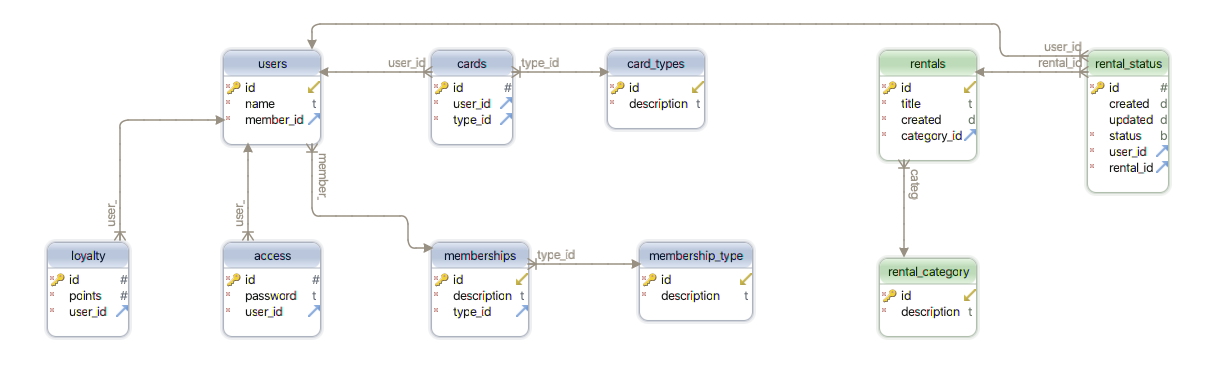
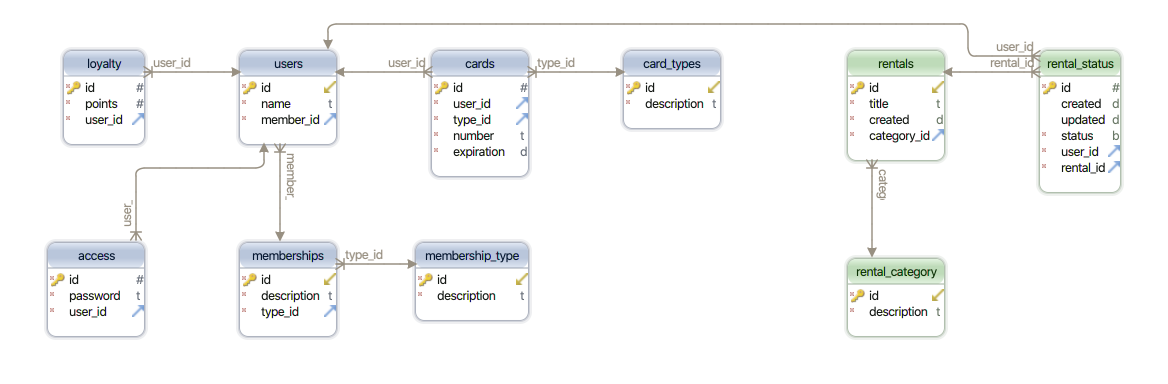
Adding Database methods

diff --git a/src/main/java/db/Database.java b/src/main/java/db/Database.java
@@ -9,9 +9,13 @@ import db.entities.MembershipDAO;
 import db.entities.RentStatusDAO;
 import db.entities.RentalDAO;
 import db.entities.UserDAO;
+import entities.Card;
 import entities.Rental;
 import entities.User;
+import java.util.ArrayList;
 import java.util.Map;
+import java.util.logging.Level;
+import java.util.logging.Logger;
 
 public class Database implements IDatabase {
 	
@@ -41,6 +45,17 @@ public class Database implements IDatabase {
     public boolean create() {
         return this.db.create();
     }
+
+    @Override
+    public void addCardToUser(User user, Card card) {
+            try {
+                this.cards.insertCard(card);
+                user.getLoyalty().addPoints(Card.POINTS);
+                this.loyalty.updateLoyalty(user);
+            } catch (SQLException ex) {
+                Logger.getLogger(Database.class.getName()).log(Level.SEVERE, null, ex);
+            }
+    }
         
         private static class DatabaseHolder {
 
@@ -69,62 +84,112 @@ public class Database implements IDatabase {
 
 	@Override
 	public List<User> getCustomers() {
-		// TODO Auto-generated method stub
-		return null;
+            try {
+                // TODO Auto-generated method stub
+                return this.user.getAll();
+            } catch (SQLException ex) {
+                Logger.getLogger(Database.class.getName()).log(Level.SEVERE, null, ex);
+            }
+            return null;
 	}
 
 	@Override
 	public List<User> searchCustomer(String name) {
-		// TODO Auto-generated method stub
-		return null;
+            try {
+                // TODO Auto-generated method stub
+                return this.user.get(name);
+            } catch (SQLException ex) {
+                Logger.getLogger(Database.class.getName()).log(Level.SEVERE, null, ex);
+            }
+            return null;
 	}
 
 	@Override
 	public Boolean addCustomer(User custumer) {
-		// TODO Auto-generated method stub
-		return null;
+            try {
+                // TODO Auto-generated method stub
+                return this.user.insertUser(custumer) > 0;
+            } catch (SQLException ex) {
+                Logger.getLogger(Database.class.getName()).log(Level.SEVERE, null, ex);
+            }
+            return false;
 	}
 
 	@Override
 	public Boolean editCustomer(User custumer) {
-		// TODO Auto-generated method stub
-		return null;
+            try {
+                // TODO Auto-generated method stub
+                return this.user.updateUser(custumer);
+            } catch (SQLException ex) {
+                Logger.getLogger(Database.class.getName()).log(Level.SEVERE, null, ex);
+            }
+            return false;
 	}
 
 	@Override
 	public Boolean deleteCustomer(User custumer) {
-		// TODO Auto-generated method stub
-		return null;
+            try {
+                // TODO Auto-generated method stub
+                return this.user.deleteUser(custumer);
+            } catch (SQLException ex) {
+                Logger.getLogger(Database.class.getName()).log(Level.SEVERE, null, ex);
+            }
+            return false;
 	}
 
 	@Override
 	public Boolean addTitle(Rental title) {
-		// TODO Auto-generated method stub
-		return null;
+            try {
+                // TODO Auto-generated method stub
+                return this.rental.insertRental(title) > 0;
+            } catch (SQLException ex) {
+                Logger.getLogger(Database.class.getName()).log(Level.SEVERE, null, ex);
+            }
+            return false;
 	}
 
 	@Override
 	public List<Rental> searchRental(String title) {
-		// TODO Auto-generated method stub
-		return null;
+            try {
+                // TODO Auto-generated method stub
+                return this.rental.get(title);
+            } catch (SQLException ex) {
+                Logger.getLogger(Database.class.getName()).log(Level.SEVERE, null, ex);
+            }
+            return null;
 	}
 
 	@Override
 	public Boolean editTitle(Rental title) {
-		// TODO Auto-generated method stub
-		return null;
+            try {
+                // TODO Auto-generated method stub
+                return this.rental.updateRental(title);
+            } catch (SQLException ex) {
+                Logger.getLogger(Database.class.getName()).log(Level.SEVERE, null, ex);
+            }
+            return false;
 	}
 
 	@Override
 	public Boolean addCustomerRental(User customer, Rental title) {
-		// TODO Auto-generated method stub
-		return null;
+            try {
+                // TODO Auto-generated method stub
+                return this.rentStatus.insertRentStatus(customer, title) > 0;
+            } catch (SQLException ex) {
+                Logger.getLogger(Database.class.getName()).log(Level.SEVERE, null, ex);
+            }
+            return false;
 	}
 
 	@Override
 	public Boolean addCustomerReturn(User customer, Rental title) {
-		// TODO Auto-generated method stub
-		return null;
+            try {
+                // TODO Auto-generated method stub
+                return this.rentStatus.updateRentStatus(customer, title);
+            } catch (SQLException ex) {
+                Logger.getLogger(Database.class.getName()).log(Level.SEVERE, null, ex);
+            }
+            return false;
 	}
 
 	public User executeLogin(String user, String password) throws SQLException {
@@ -136,11 +201,10 @@ public class Database implements IDatabase {
 			+ "WHERE a.password = '" + password + "' AND "
 			+ "u.name = '" + user + "';");
 		
-		User userObj = null;
                 if (result.size() == 1 && (int) result.get(0).get("c") > 0) {
-                    userObj = this.user.get(user);
+                    return this.user.get(user).get(0);
                 }
-		return userObj;
+		return null;
 	}
 
 }

diff --git a/src/main/java/db/entities/UserDAO.java b/src/main/java/db/entities/UserDAO.java
@@ -1,6 +1,5 @@
 package db.entities;
 
-import java.sql.ResultSet;
 import java.sql.SQLException;
 
 import db.SQLDatabase;
@@ -33,6 +32,9 @@ public class UserDAO extends DAO implements IUserDAO {
                     "INSERT INTO access(id, user_id, password) VALUES (null, #1, #2);",
                     id,
                     user.getPassword());
+            this.db.insert(
+                    "INSERT INTO loyalty(id, user_id, points) VALUES (null, #1, #2);",
+                    id, 0);
             return id;
 	}
 
@@ -85,22 +87,23 @@ public class UserDAO extends DAO implements IUserDAO {
 	}
 
 	@Override
-	public User get(String name) throws SQLException {
+	public List<User> get(String name) throws SQLException {
                 List<Map<String, Object>> result = this.db.query("SELECT u.id AS id, u.name AS name, "
                         + "u.member_id AS mid "
                         + "FROM users AS u "
-			+ "WHERE u.name = '" + name + "'");
+			+ "WHERE u.name LIKE '%" + name + "%'");
 		
-		User userObj = null;
+		List<User> list = new ArrayList<>();
                 for(Map<String, Object> map : result){
-                    userObj = new User(
+                    list.add(new User(
                                 (int) map.get("id"),
                                 (String) map.get("name"),
                                 this.loyalty.get((int) map.get("id")),
                                 this.membership.get((int) map.get("mid")),
-                                this.cards.get((int) map.get("id")));	
+                                this.cards.get((int) map.get("id")))
+                    );	
                 }
-		return userObj;
+		return list;
 	}
 
 }

diff --git a/src/main/java/entities/Card.java b/src/main/java/entities/Card.java
@@ -1,6 +1,10 @@
 package entities;
 
+import java.util.Date;
+
 public class Card {
+
+    public static int POINTS = 10;
 
     	public enum Type {
 		Credit, Debit
@@ -9,6 +13,8 @@ public class Card {
 	private int id;
 	private Type type;
 	private int user;
+        private String number;
+        private Date expirationDate;
 	
         public Card(Type type, int user) {
             this(-1, type, user);
@@ -19,6 +25,19 @@ public class Card {
 		this.type = type;
 		this.user = user;
 	}
+        
+        public void addCardNumber(String number, Date expiration) {
+            this.number = number;
+            this.expirationDate = expiration;
+        }
+        
+        public String getNumber() {
+            return this.number;
+        }
+        
+        public long getExpirationDate() {
+            return this.expirationDate.getTime();
+        }
 	
 	public int getId() {
 		return this.id;

diff --git a/src/main/java/db/entities/CardsDAO.java b/src/main/java/db/entities/CardsDAO.java
@@ -22,8 +22,8 @@ public class CardsDAO extends DAO implements ICardsDAO {
             int type_id = (int) this.db.query("SELECT id FROM card_types WHERE description='"
                     + String.valueOf(card.getType()) + "';").get(0).get("id");
 
-            String sql = "INSERT INTO cards(id, user_id, type_id) VALUES(null, #1, #2);";
-            int id = this.db.insert(sql, card.getUser(), type_id);
+            String sql = "INSERT INTO cards(id, user_id, type_id, number, expiration) VALUES(null, #1, #2, '#3', #4);";
+            int id = this.db.insert(sql, card.getUser(), type_id, card.getNumber(), card.getExpirationDate());
             card.setId(id);
             return id;
 	}

diff --git a/src/main/java/db/IDatabase.java b/src/main/java/db/IDatabase.java
@@ -1,5 +1,6 @@
 package db;
 
+import entities.Card;
 import java.util.List;
 
 import entities.Rental;
@@ -18,4 +19,5 @@ public interface IDatabase {
 	public Boolean editTitle(Rental title);
 	public Boolean addCustomerRental(User customer, Rental title);
 	public Boolean addCustomerReturn(User customer, Rental title);
+        public void addCardToUser(User user, Card card);
 }

diff --git a/src/main/java/db/dao/IUserDAO.java b/src/main/java/db/dao/IUserDAO.java
@@ -11,5 +11,5 @@ public interface IUserDAO {
 	boolean deleteUser(User user) throws SQLException;
 	boolean updateUser(User user) throws SQLException;
 	List<User> getAll() throws SQLException;
-	User get(String name) throws SQLException;
+	List<User> get(String name) throws SQLException;
 }
